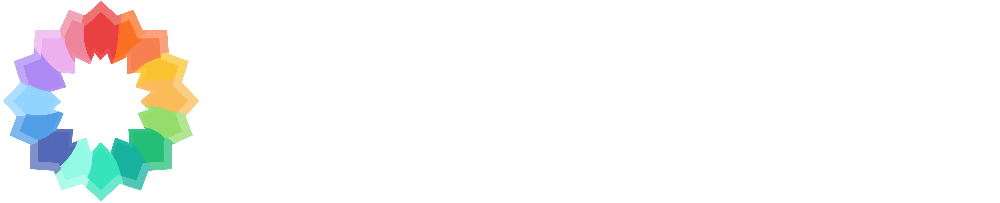
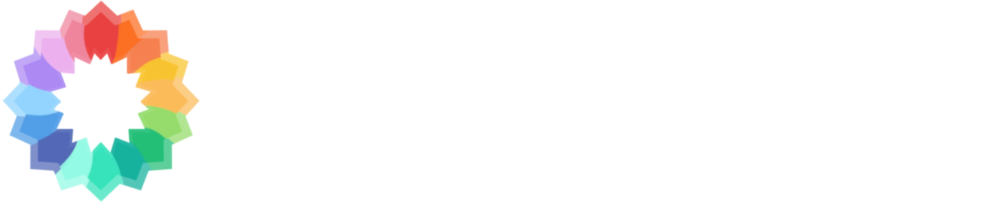
test 3

diff --git a/src/pages/og/[...slug].ts b/src/pages/og/[...slug].ts
@@ -12,7 +12,7 @@ export const { getStaticPaths, GET } = OGImageRoute({
     return {
       title: page.data.title,
       description: page.data.description,
-      logo: { path: './src/assets/og_banner.png', size: [350] },
+      logo: { path: './src/assets/og_banner.png' },
       backgroundImage: `linear-gradient(rgba(24, 24, 27, 0.4), rgba(24, 24, 27, 0.4)), url('/assets/banner.png')`,
       bgGradient: [[24, 24, 27]],
       border: { color: [76, 108, 178], width: 20 },
